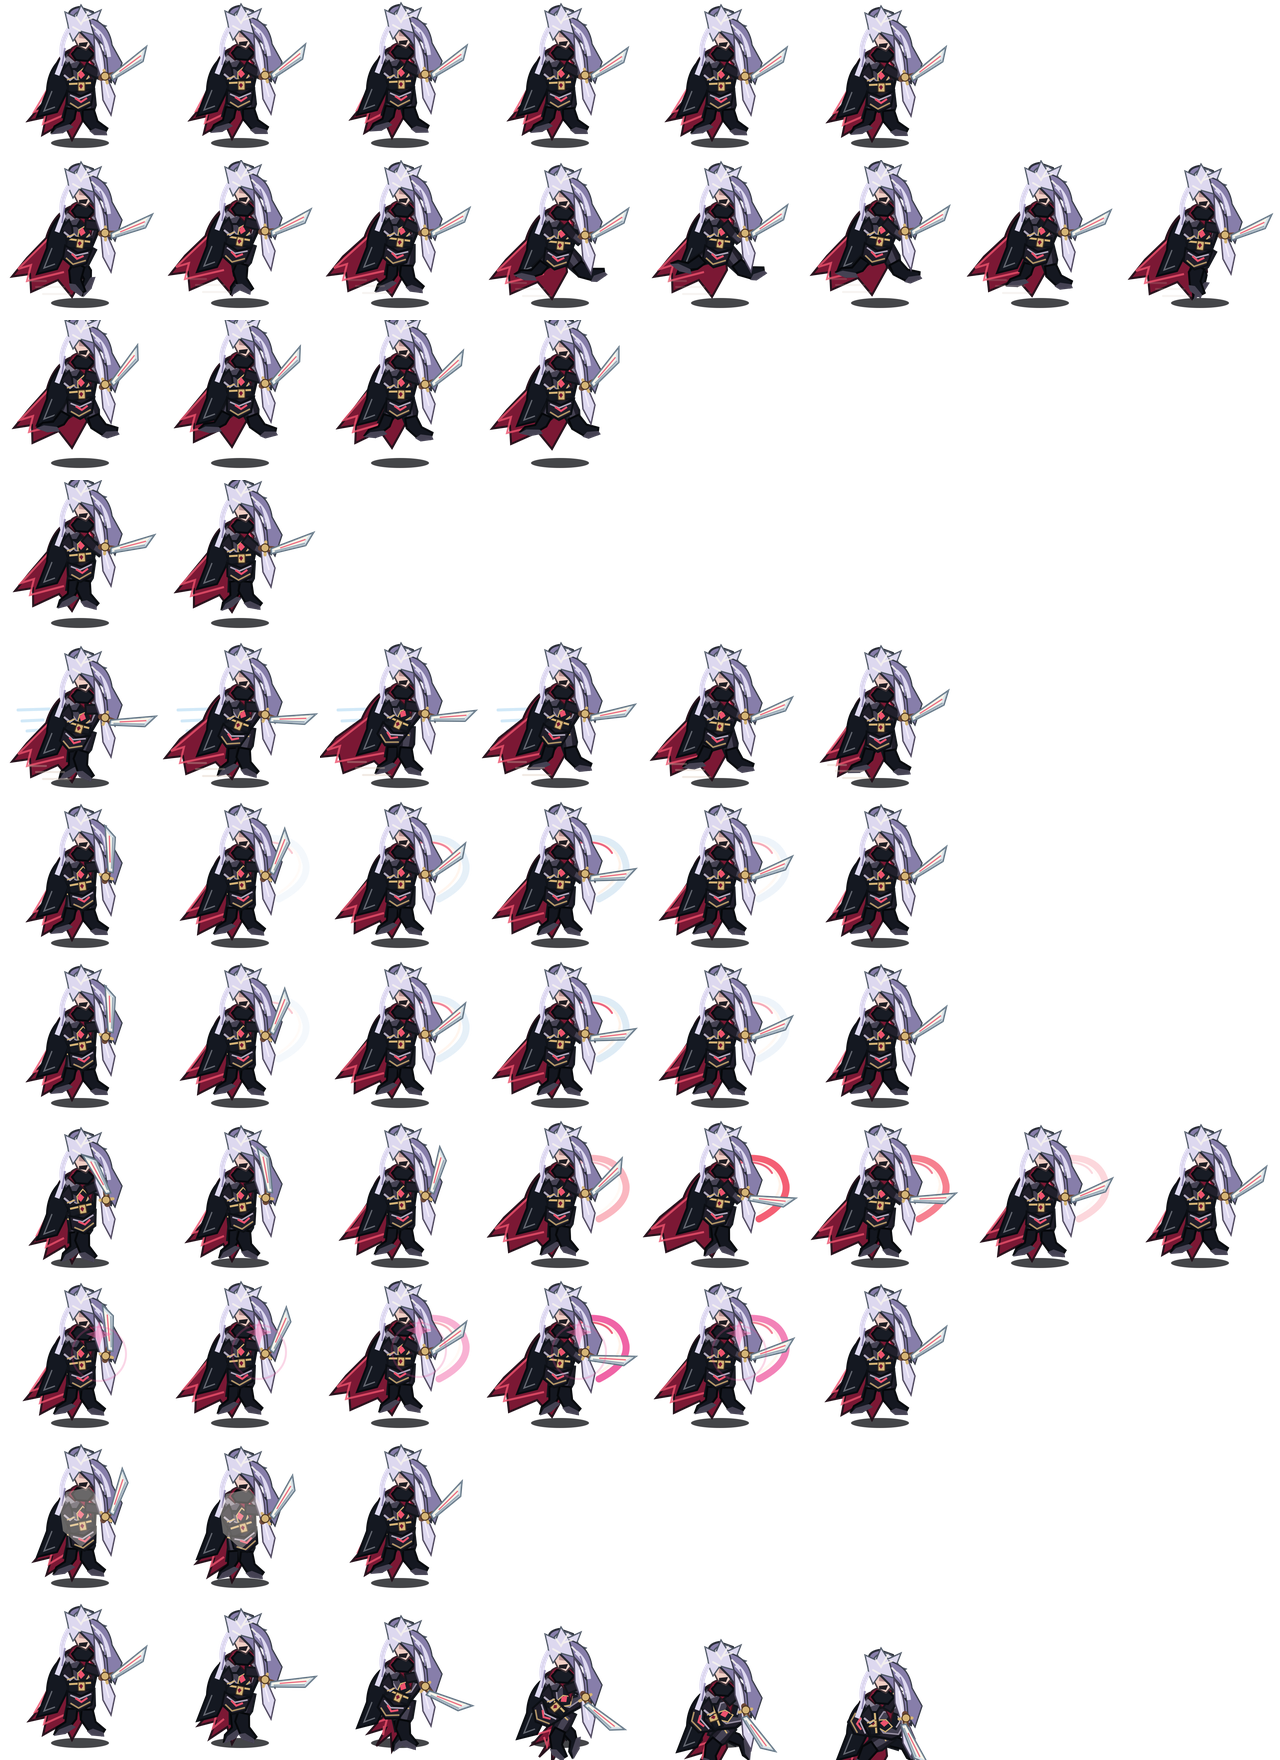
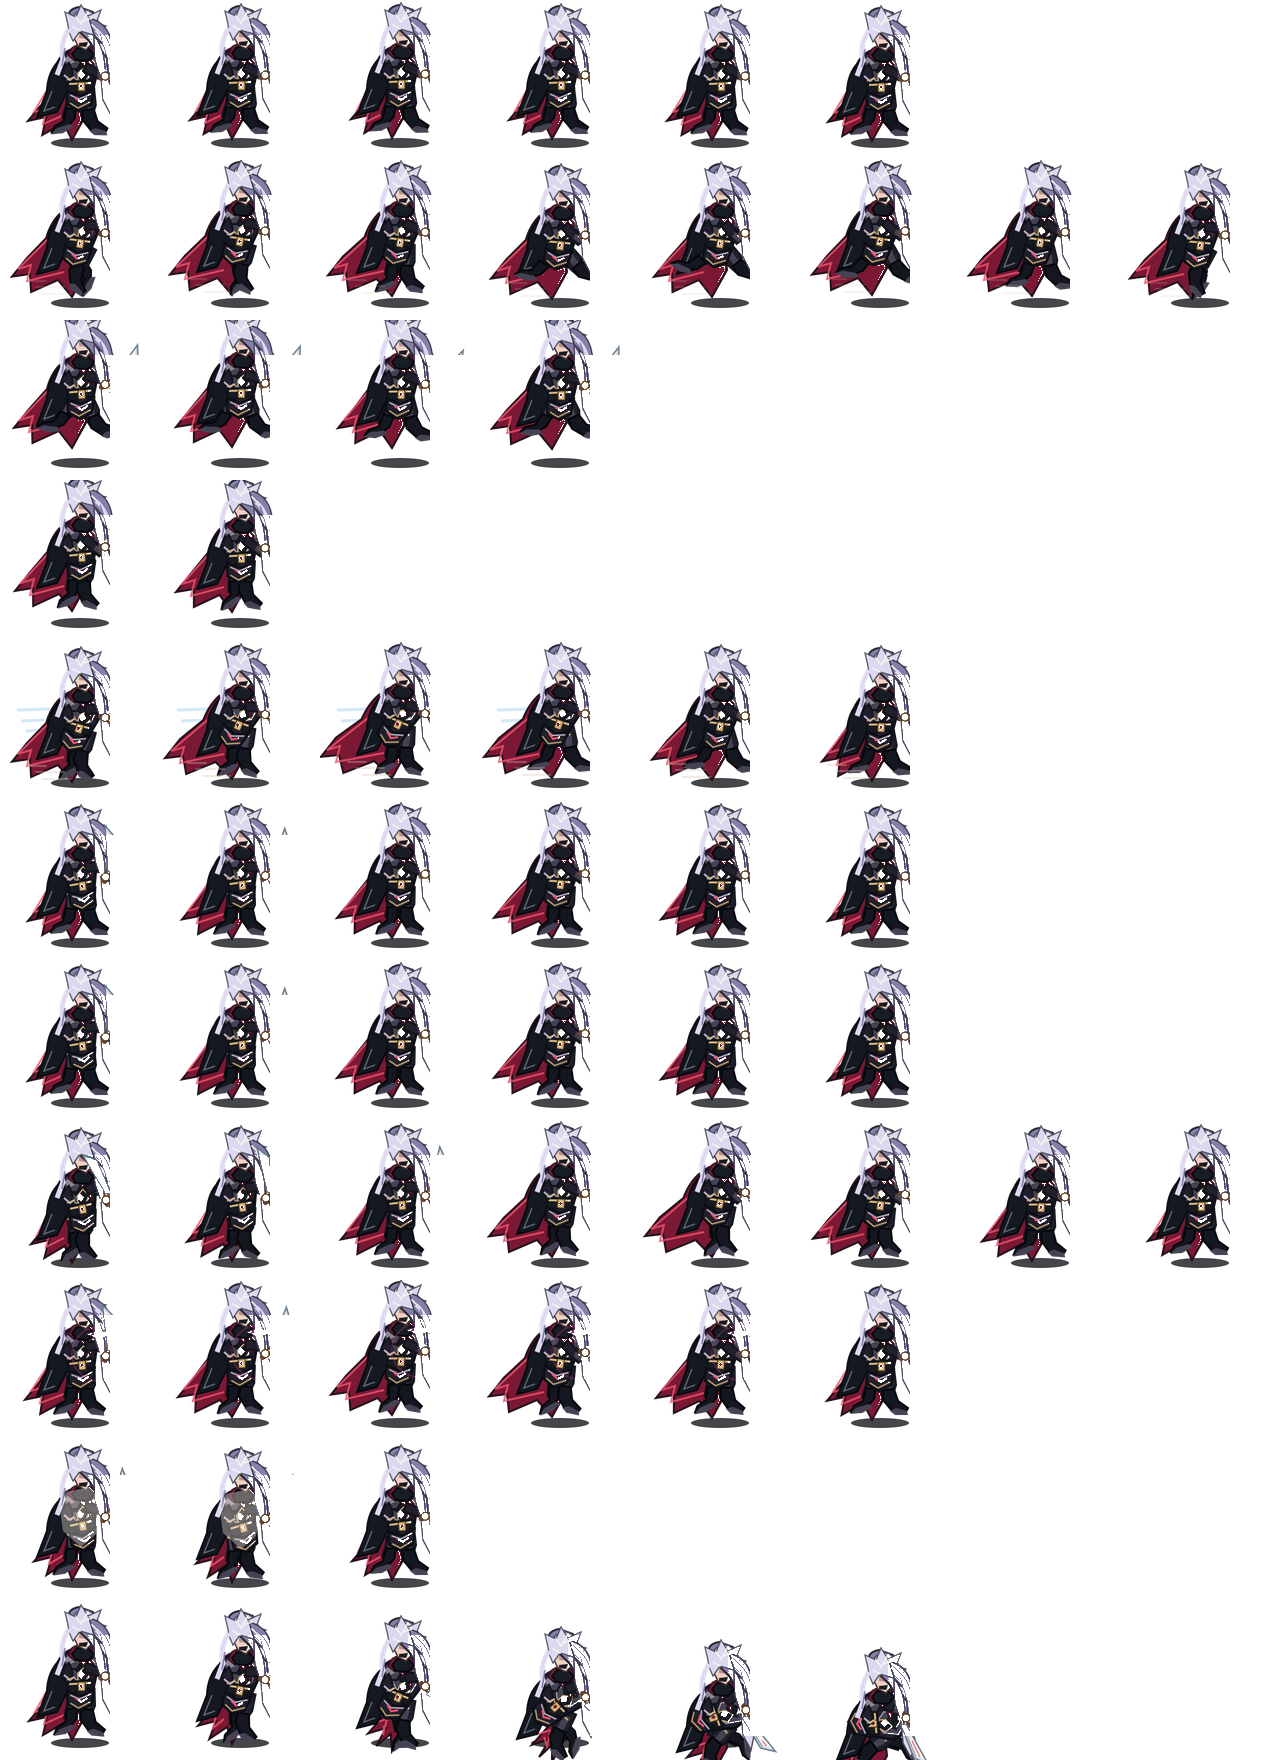
Replace character + environments with Combat Upgrade pack: combat male/female default skins, 4 pack backdrops as regions (F1-F4)

diff --git a/tools/build_pack_sheet.py b/tools/build_pack_sheet.py
@@ -19,13 +19,14 @@ ROWS = [
     ("light2", "attack_light", 6), ("heavy", "attack_heavy", 8),
     ("skill", "skill", 6), ("hurt", "hurt", 3), ("death", "death", 6),
 ]
-FEET_ROW = 146   # body feet (the pack frames carry a ground shadow below, ~row 151)
+FEET_ROW = 140   # ground line used by the pack itself (sprite centre y=80 sits 60px above the origin)
 CENTER_X = 80
+SRC_DIR = "characters_combat"  # bodies without a sword; weapons are drawn separately at the hand
 SCALE = 0.45     # 160px pack frames -> about the on-screen size of the knight
 
 
 def build(pack_root, name, out_dir):
-    src = os.path.join(pack_root, "assets", "characters", name)
+    src = os.path.join(pack_root, "assets", SRC_DIR, name)
     sheet = Image.new("RGBA", (FRAME * 8, FRAME * len(ROWS)), (0, 0, 0, 0))
     rows = []
     for r, (row_name, strip, n) in enumerate(ROWS):

diff --git a/docs/PROGRESS.md b/docs/PROGRESS.md
@@ -29,6 +29,7 @@ Priority: SAVE PROGRESS > MANY FEATURES. Commit and push after every small step.
 - Run/jump/fall/dodge are now procedural (`tools/build_knight_sheet.py`): built from the single clean idle pose (legs rotate about the hips, torso bobs/leans; 8-frame run at 16 fps, 2-frame jump/fall, 6-frame roll at 20 fps) because the atlas's own run/attack concept frames are inconsistent between frames. Placeholder quality until real hand-made frames exist. Tests 18/18 + 10/10.
 - Environment Kit + Weapon Kit added (`docs/kits/*_README.md` has the originals' docs). Backgrounds: kit 01-03 were the same art as existing regions, so those regions got the kit names (Ashen Chapel, Cinder Bastion, The Drowned March) and the new `veiled_throne.jpg` became region 5 (F1-F5; Moonlit Citadel keeps its name). Weapons: all 12 weapon PNGs, icons, `weapon_manifest.json` in `godot/assets/weapons/`, VFX in `godot/assets/fx/kit/`. In game: hotbar uses the kit icons (Rookfang 01, Gravetide 04, Oathbreaker 02); weapons now change gameplay via `Player.WEAPON_DATA` (damage x, reach x, slash art: crimson / frost / holy); hits spawn kit slash + blood impact, dodge spawns the dash trail (`SheetUtil.pop_sprite`). Held-weapon sprites are NOT drawn (the knight art already holds a sword); the other 9 weapons are unused for now. HUD icon textures must be preloaded in `_ready` (first-draw load showed white squares). Tests 19/19 + 10/10.
 - Asset Pack import (step 1): owner's `AshenVeil_Godot_Complete_Asset_Pack.zip` (checksums verified) has generated chibi-style male/female characters with real jump/fall/land/dodge/hurt/death strips (160px frames). They differ in style from the painted Ashen Knight, so the knight stays the default. `tools/build_pack_sheet.py <pack_root>` builds `godot/assets/characters/player_male|female.png/.json` in the game's row format (scale 0.45, feet_row 146, center_x 80). Wired in (step 2): `Player.SKINS` + static `Player.skin`, **F6 cycles Ashen Knight / Male / Female** (scene reloads, choice survives like regions); skin test added (sheet + meta exist); `tests/screenshot.gd` honours env `ASHEN_SKIN=0|1|2`. Screenshot-checked male skin: scale and feet line up on the floor. Tests 20/20 + 10/10 style (FAILURES: 0 both).
+- Combat Upgrade pack (step 1, owner asked to replace character + environments with it): default player is now the pack's **combat** male body (`assets/characters_combat`, no sword baked in; female via F6, old Ashen Knight kept as 3rd skin); `tools/build_pack_sheet.py` now reads `characters_combat` (feet_row 140, center_x 80, scale 0.45). Regions replaced by the pack's 4 backdrops (`01_drowned_march`, `02_ashen_chapel`, `03_cinder_bastion`, `04_veiled_throne` in `godot/assets/parallax/`, F1-F4); old region jpgs removed. NEXT (step 2): draw the pack's 12 runtime weapons on a hand pivot (`assets/weapons/runtime_manifest.json`: grip_anchor, scale, swing angles; hand at (34,-69) male / (36,-68) female at pack scale 1.0) and drive stats from the manifest.
 
 ## Decision
 Port to Godot 4 (GDScript) for 2D lights, parallax, particles and shaders. Python version stays as a fallback.

diff --git a/README.md b/README.md
@@ -17,8 +17,8 @@ The game features fast, responsive side-scrolling combat, dodge rolls, multi-str
 | **Soul Burst** | `Q` | Costs 40 FP (AoE explosion) |
 | **Healing Flask** | `R` | Restores 110 HP (3 charges) |
 | **Switch Weapon** | `1` / `2` / `3` | Rookfang / Gravetide / Oathbreaker (each changes damage, reach and slash FX) |
-| **Switch Region** | `F1`–`F5` | Jump between the five painted backdrops (debug/preview) |
-| **Switch Skin** | `F6` | Ashen Knight (default) / Male / Female from the asset pack |
+| **Switch Region** | `F1`–`F4` | Drowned March / Ashen Chapel / Cinder Bastion / Veiled Throne backdrops |
+| **Switch Skin** | `F6` | Male (default) / Female / Ashen Knight |
 | **Pause Menu** | `Esc` | Displays controls & resume/restart |
 
 ## Running the Project
